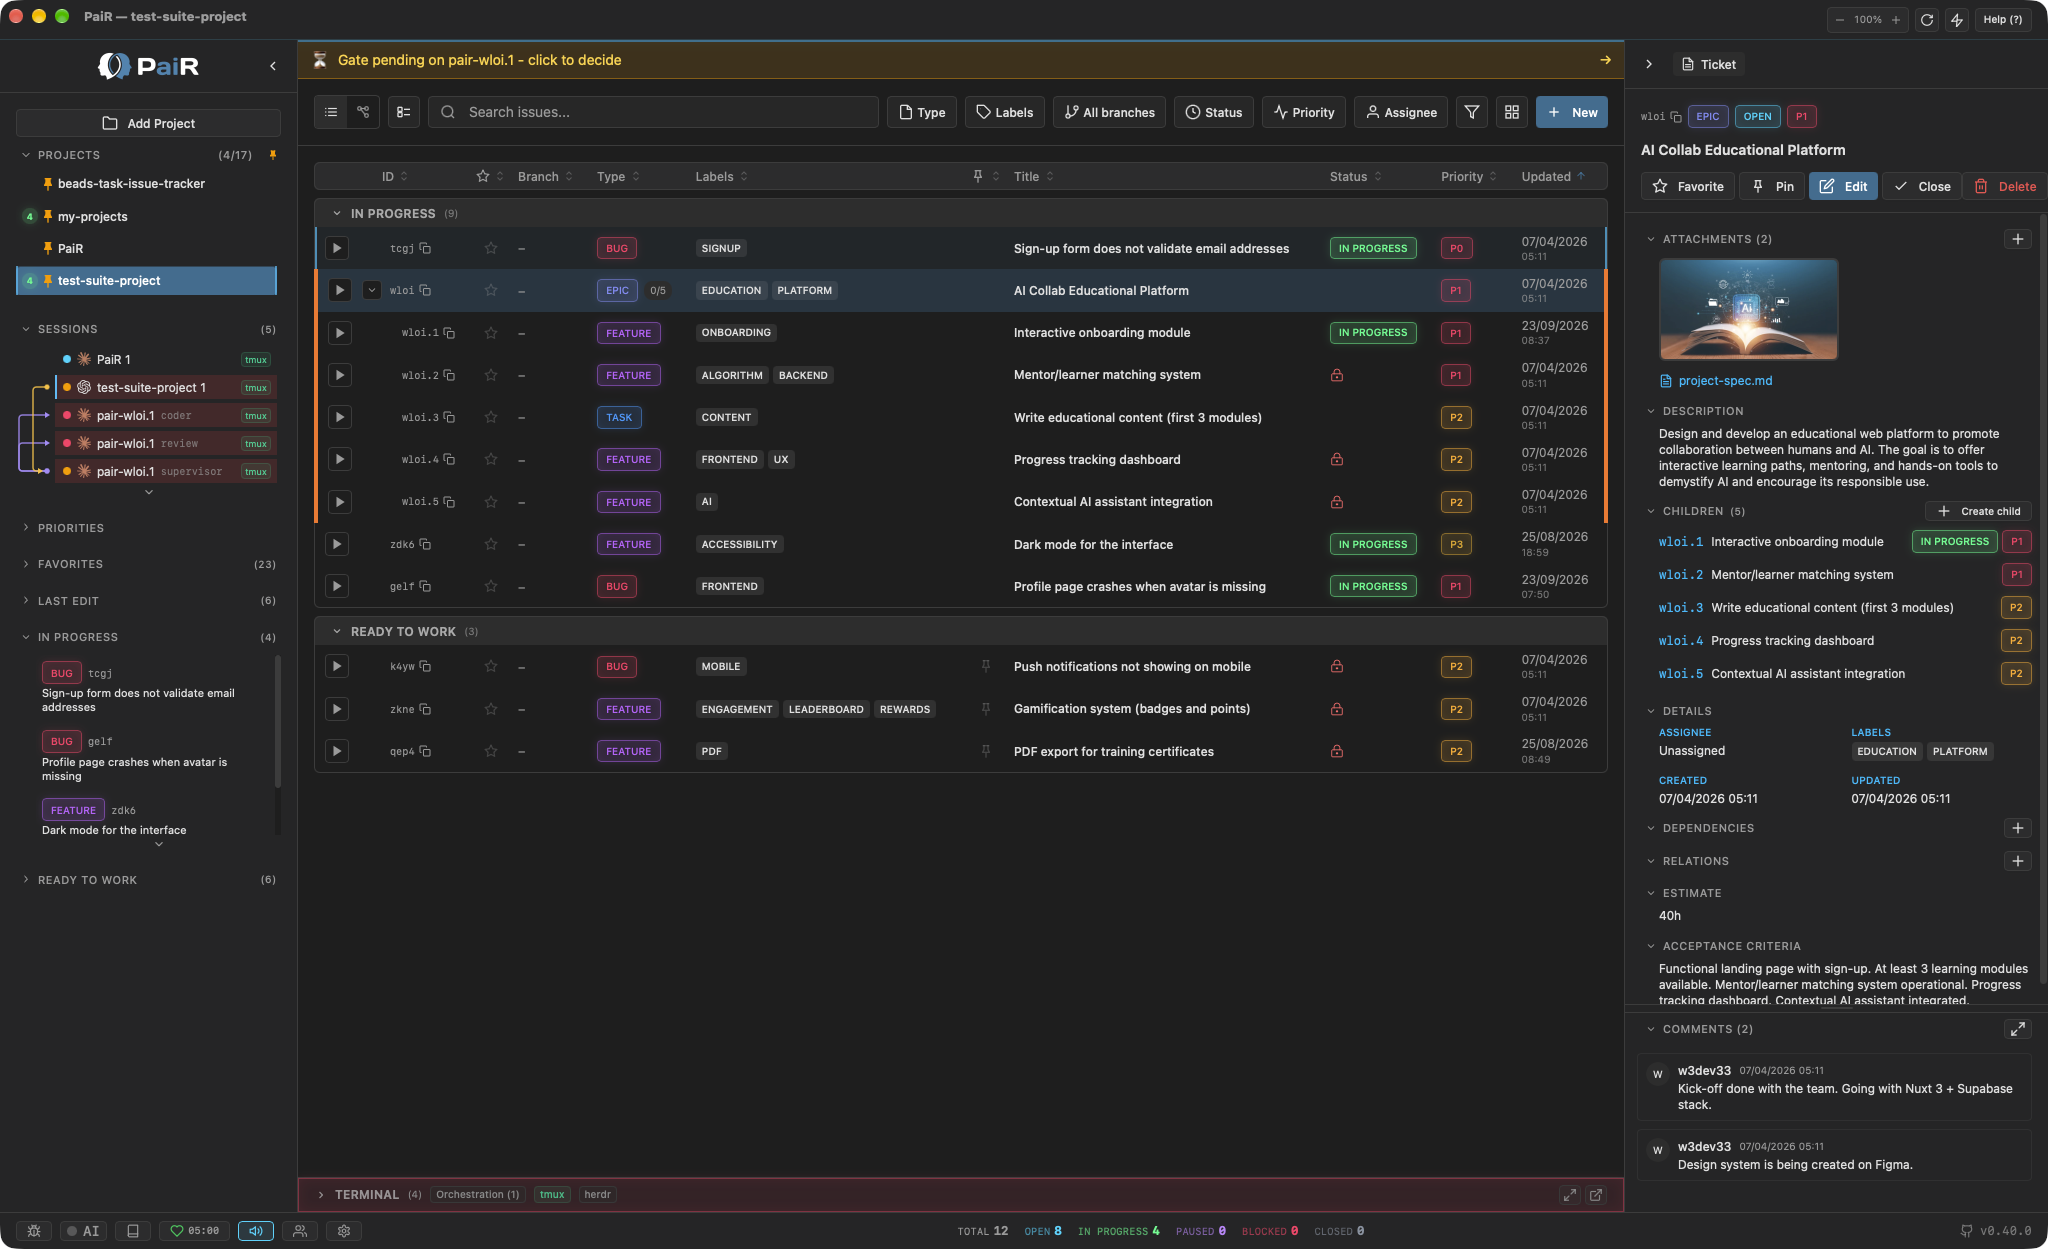
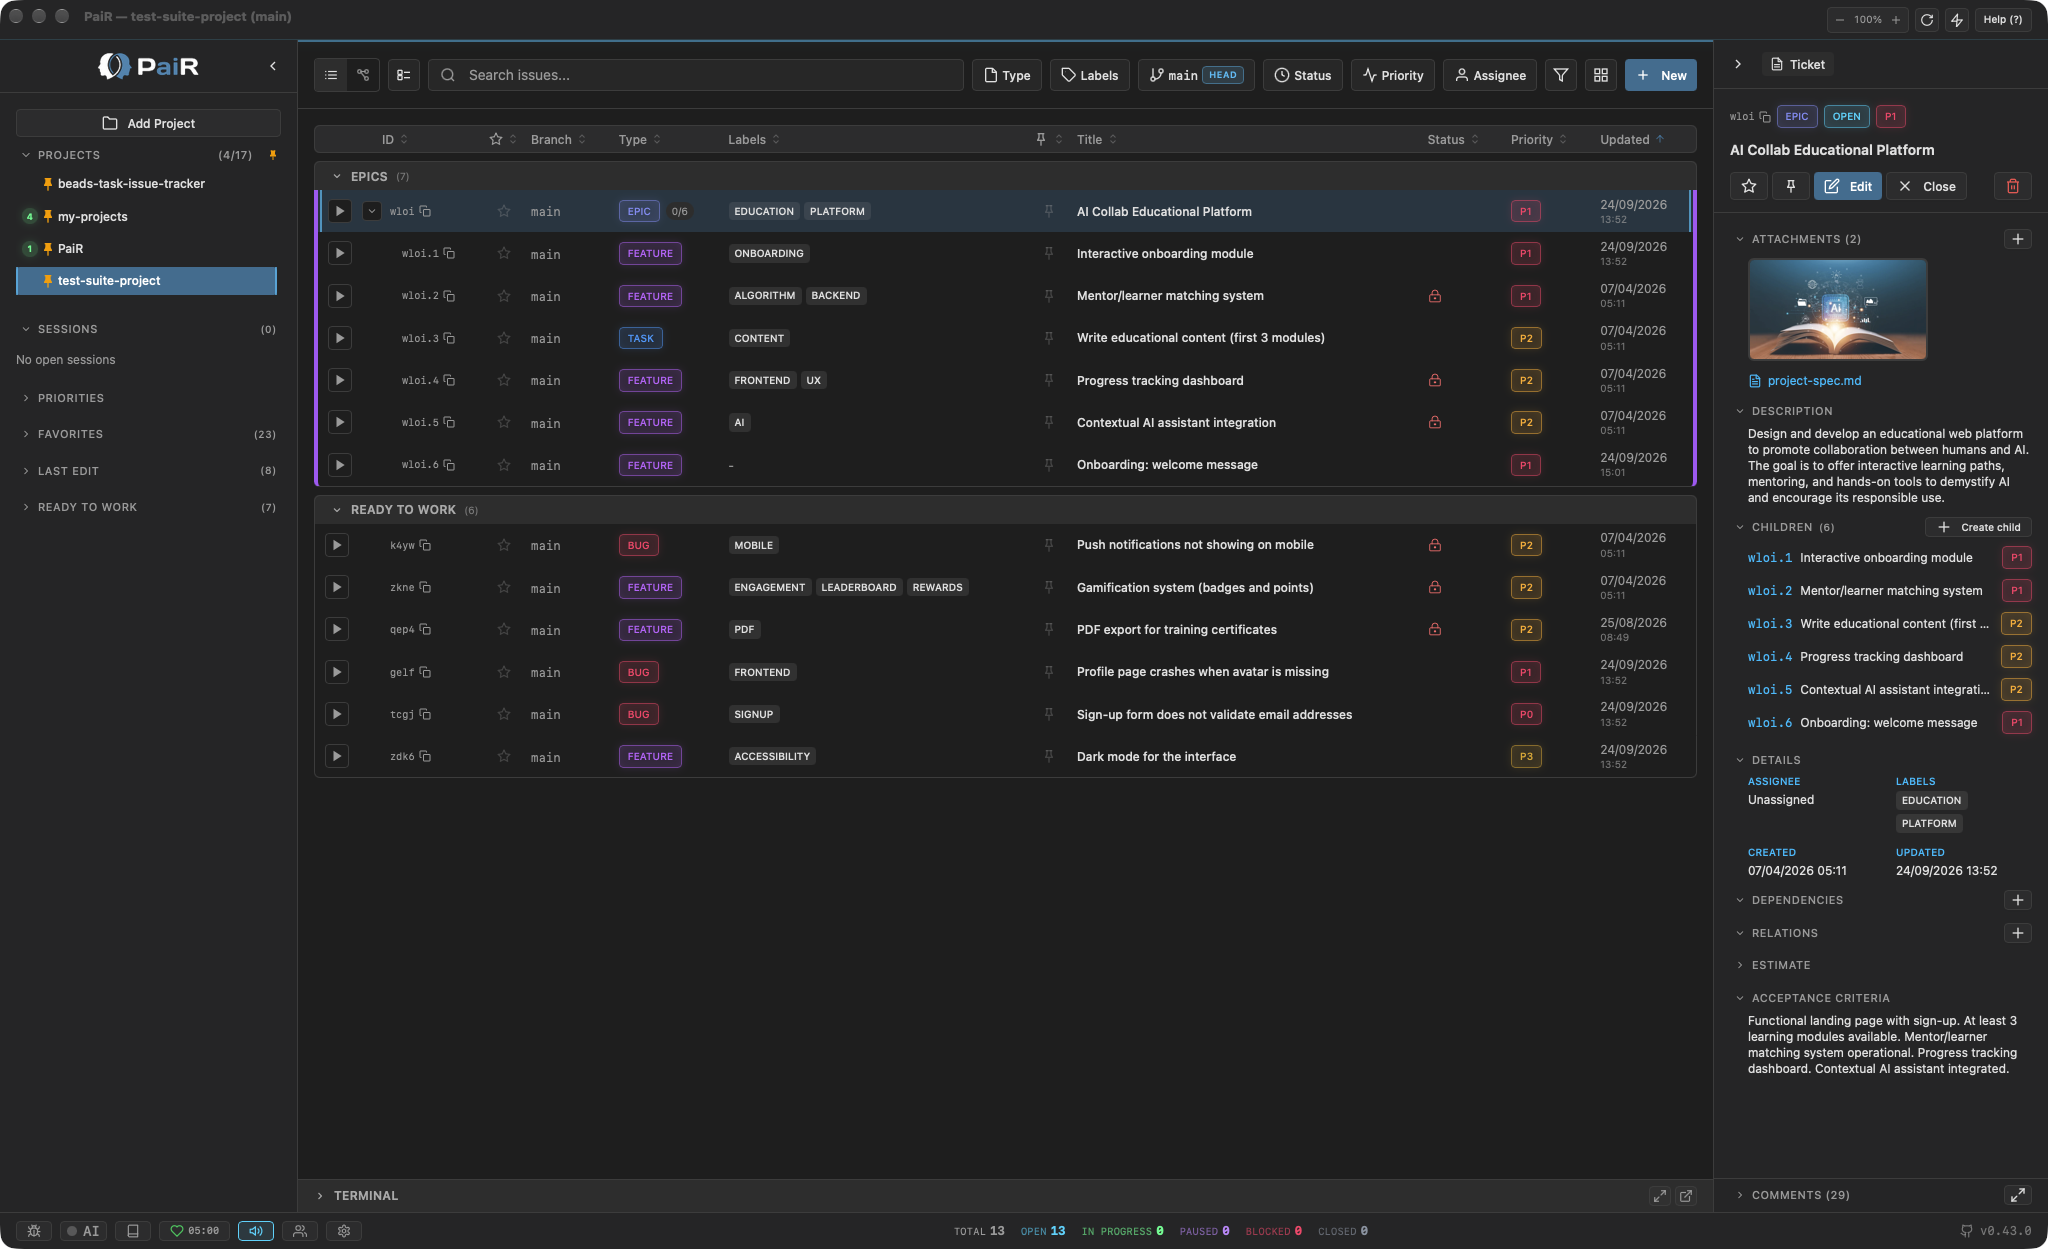
docs: sync from v0.43.0

diff --git a/CHANGELOG.md b/CHANGELOG.md
@@ -1,5 +1,25 @@
 # Changelog
 
+## [0.43.0] - 2026-09-24
+
+### Features
+- **Session type of your choice** - Settings pick a default session type (Ask, PTY, tmux, herdr) that only applies to the next sessions: changing it no longer closes open ones. The "+" menu and Play offer the runtimes that are available; orchestration teams can run in PTY.
+- **Sessions list by project** - the sidebar Sessions list groups sessions in one frame per project and drops the repeated project name from each row. Cables between sessions move to the right of the list.
+- **Opening order kept** - sessions now carry their opening time (tmux keeps its own across restarts), so tabs and the Sessions list come back in the order they were opened, not by name.
+- **Orchestration at a glance** - each role (supervisor, coder, review) shows a state pictogram in the Sessions list and on its tab: in progress, delivered or passed, review failed with its round count, gate waiting for your decision, merged, aborted. Role badges are neon-coloured and equal-width.
+- **Orchestration tabs grouped** - the tabs of one orchestration sit in a tinted frame labelled with the ticket, each tab showing only its role. Role sessions are pinned side by side when they open, and a finished orchestration keeps its grouped team after a restart while its sessions are open.
+- **Pane badge and ticket button** - every displayed terminal has a thin bar with the session name (or role) and its runtime, plus a button that opens the session's ticket in the detail panel, switching project if needed.
+- **Lighter terminal bar** - the AI activity dot sits on the tabs, the always-on purple dot and blinking Claude badge are gone, tmux no longer has a header badge and herdr's only shows when a herdr session exists.
+- **LAN sharing** - among an orchestration's roles, only the supervisor can be exposed on the network.
+- **Orchestration sandbox and diagram** - a replayable sandbox script to test orchestrations, and an SVG diagram of an orchestration's flow in the in-app docs.
+
+### Fixes
+- **Merge gate** - more reliable gate and delivery to the supervisor, a gate on another project, exact cycle counters and per-role verdicts, one message per session and per cycle, quoted text no longer trips the enforcement hook.
+- **Unsubmitted messages** - an orchestration message that lands in an agent's input without being submitted (Enter taken for a line break under load) is detected through the agent's prompt hook and its Enter re-sent.
+- **Ghost sessions** - a session closed together with others no longer stays listed.
+- **Expanded lists** - the expanded state of the Sessions and Favorites lists survives a reload.
+- **Terminal remount** - a terminal unmounted while loading no longer throws nor leaks its output listener.
+
 ## [0.42.1] - 2026-09-23
 
 ### Fixes
